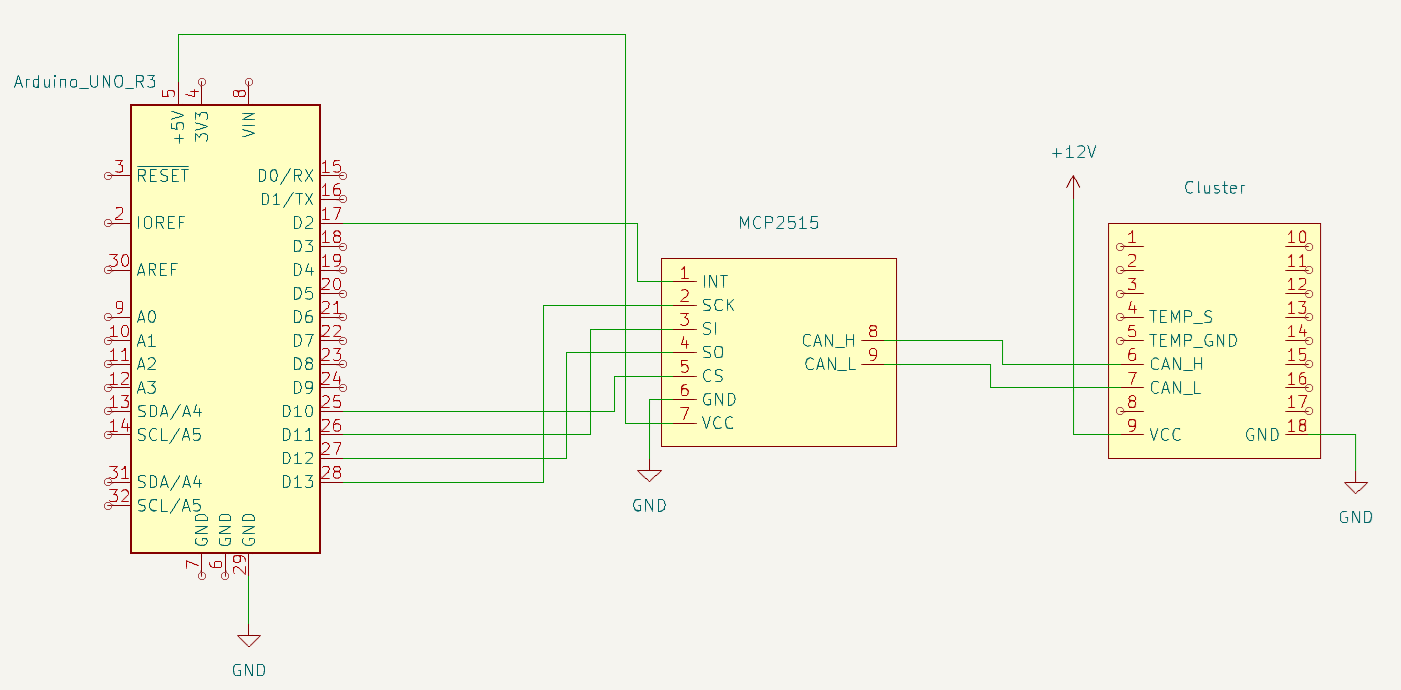
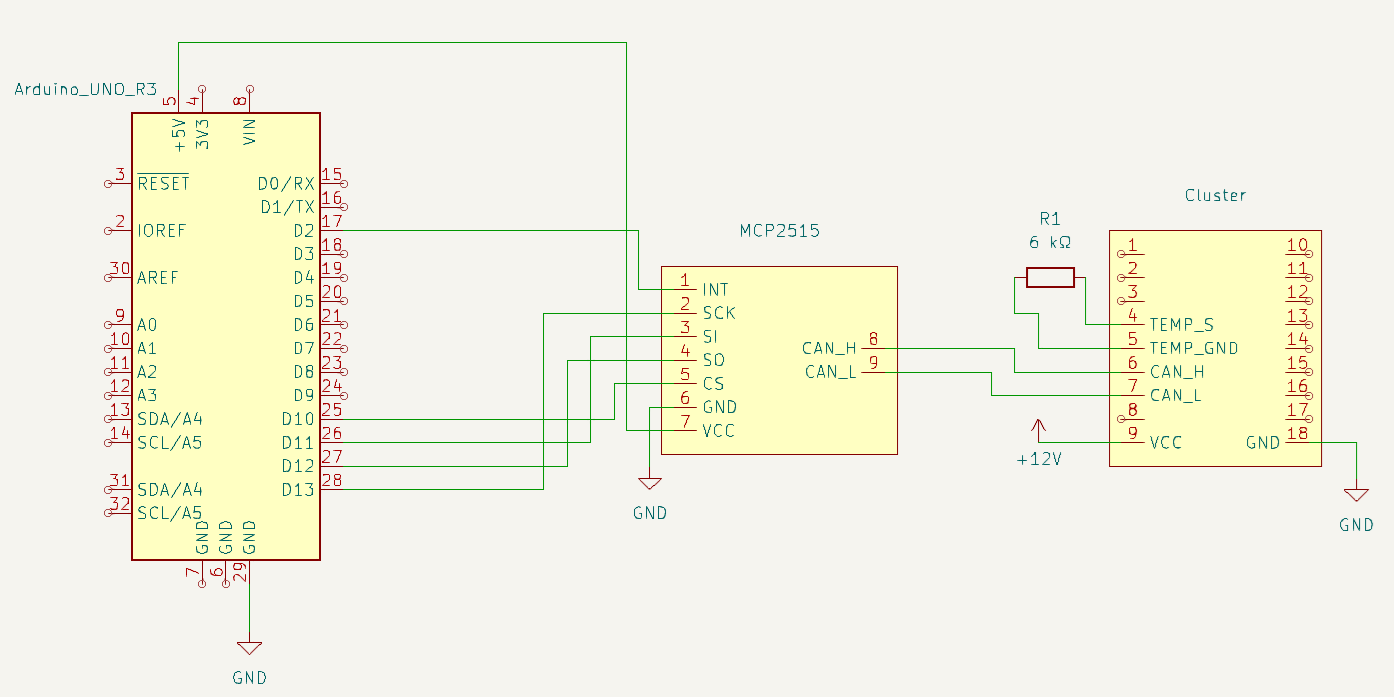
Temp sensor added

diff --git a/README.md b/README.md
@@ -53,8 +53,9 @@ Instrukcja krok po kroku, jak skonfigurować i uruchomić projekt:
    - Skonfiguruj połączenie z Arduino w sekcji `Serial settings`.  
 4. Podłączenie sprzętu:  
    - Podłącz moduł CAN do Arduino oraz licznika samochodowego.  
-   - Podłącz do licznika samochodowego zasilanie +12V oraz masę wszystkich płytek.  
+   - Podłącz do licznika samochodowego zasilanie `+12V` oraz masę wszystkich płytek.  
    - Podłącz Arduino za pomocą kabla USB.
+   - Jeśli chcesz pozbyć się komunikatu o zbyt niskiej temperaturze otoczenia należy umieścić rezystor o odpowiedniej rezystancji np. `6 kΩ`. Temperatura na liczniku zależy od dobranej rezystancji. W przypadku podanej wartości wyświetlana tamperatura wynosi ok. 18 ℃.
    - Schemat podłączenia:
    ![Schemat](images/schematic.png)
 
@@ -83,6 +84,7 @@ W zależności od gry niektóre z funkcjonalności mogą nie działać!
       - Drogowe (Długie)
       - Ostrzegawcze (Kontrolka świateł przeciwmgielnych tylnych)
       - Podświetlenie licznika zgodne z aktualnie włączonymi światłami
+   - Wskaźnik temperatury (Stała wartość w zależności od dobranego rezystora podczas [Instalacji](#instalacja))
 
 ---
 
